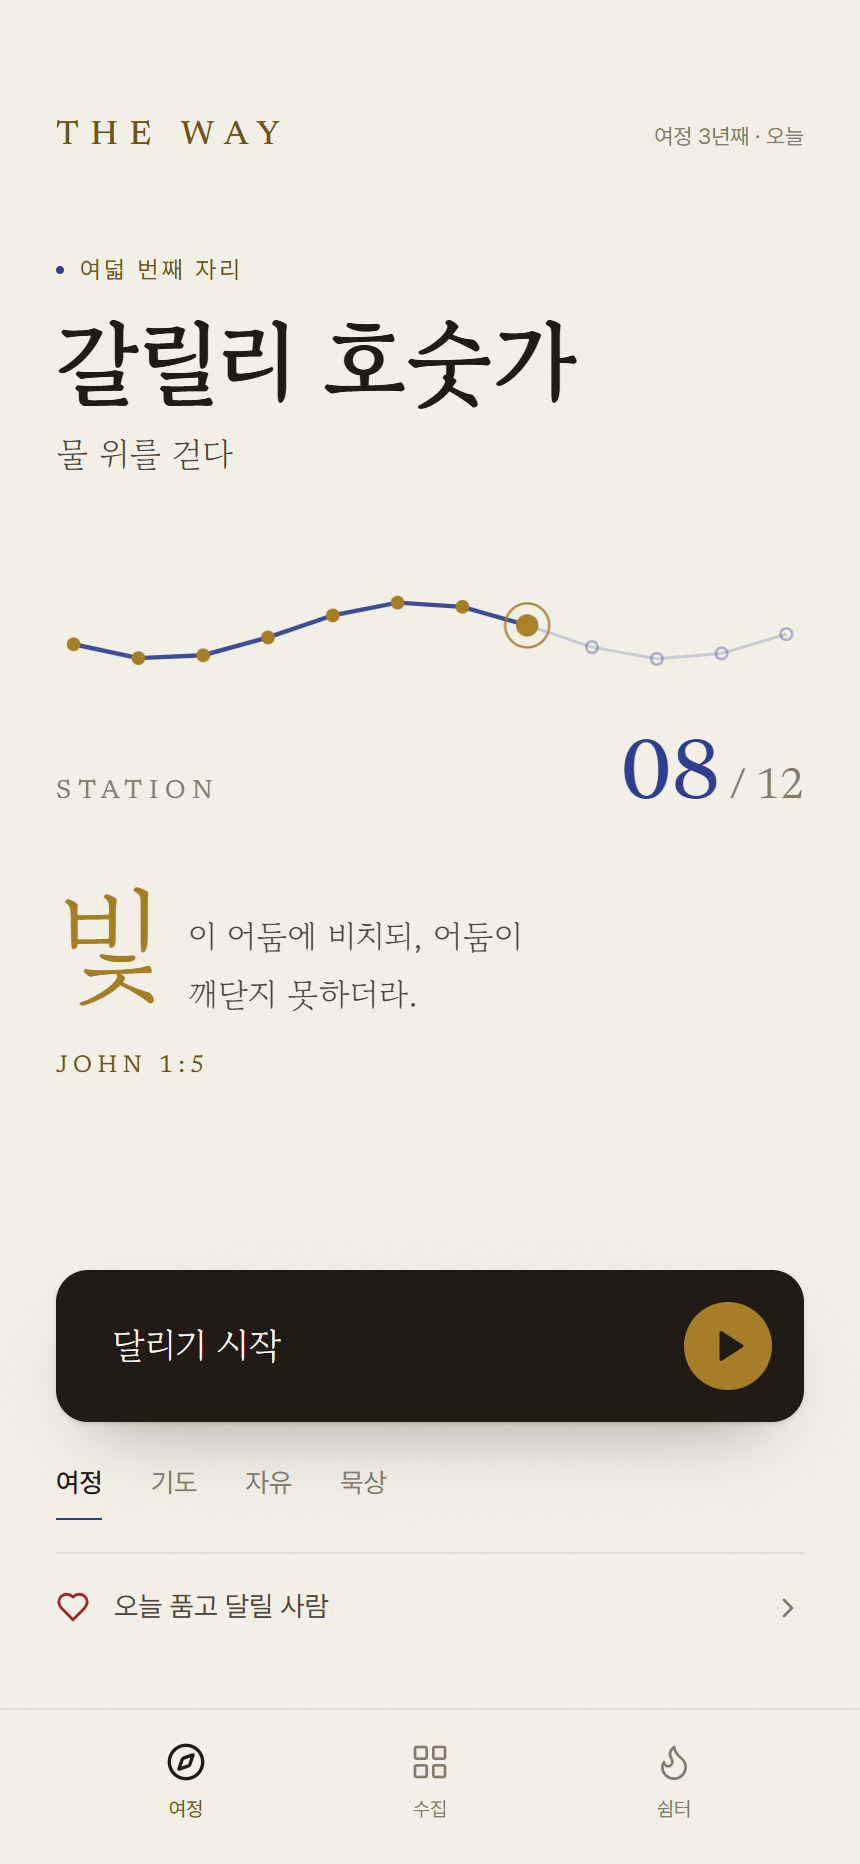
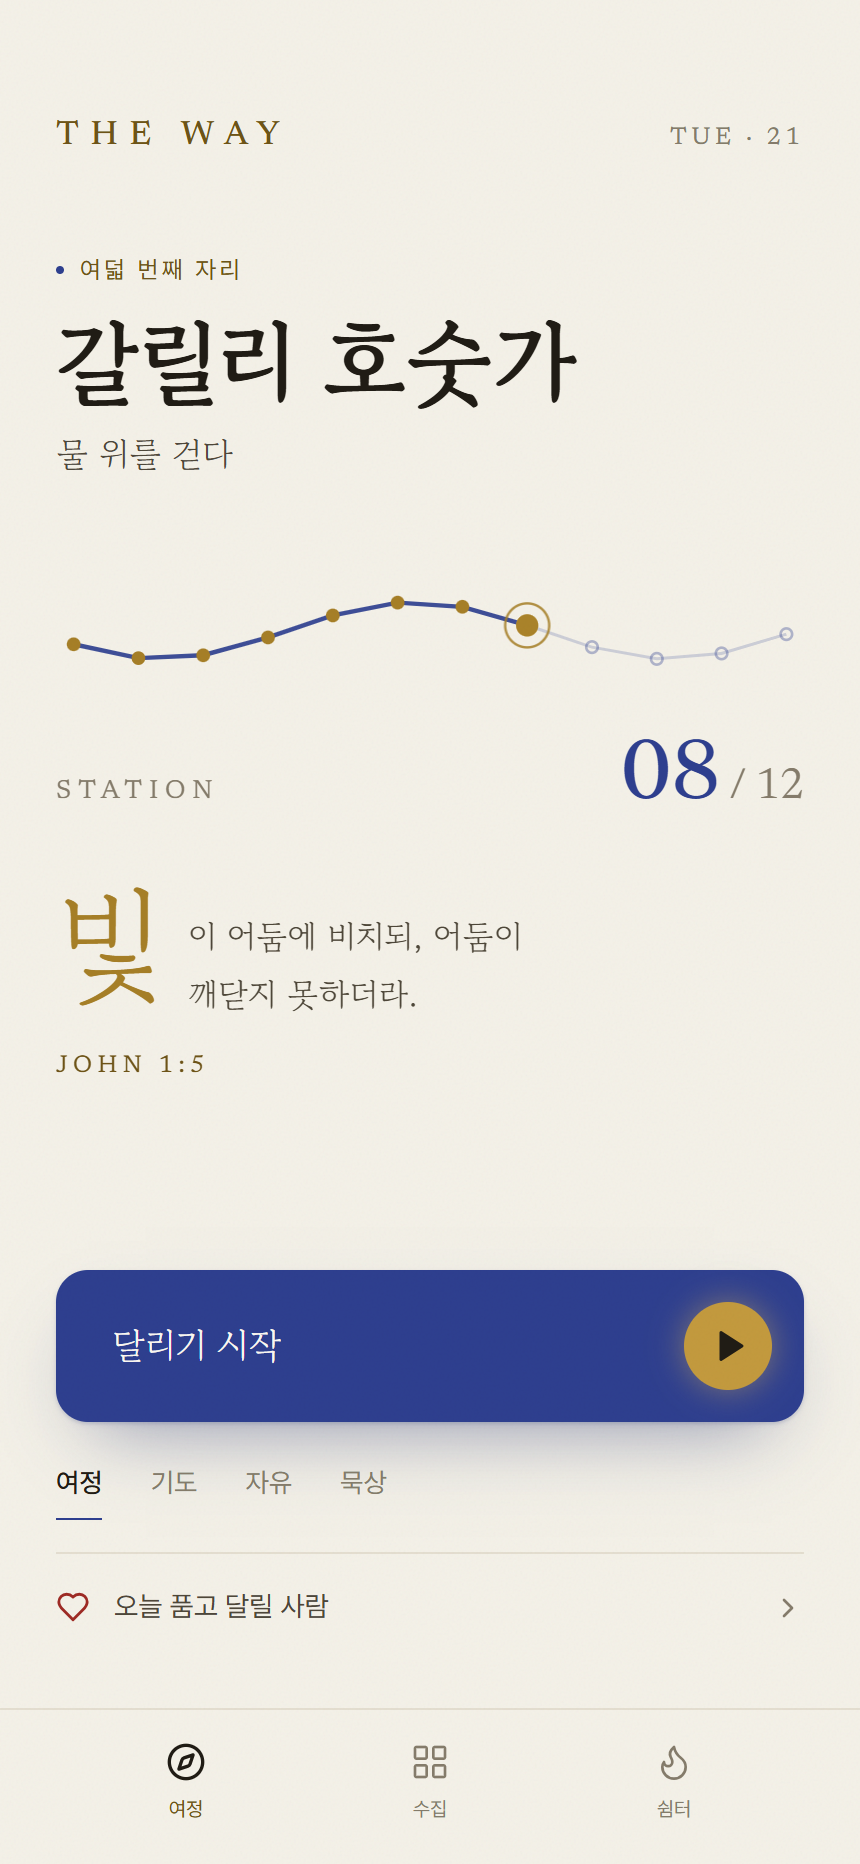
홈 점검·수정: CTA를 라피스로(검은 잉크 블록 → 길을 나선다)
- 달리기 시작 버튼 = bg-ink → bg-lapis + 금빛 발광 play 원. 따뜻한 필사본
  톤에 이질적이던 검은 블록 제거, 라피스="the Way"로 개념·색 통일.
- 헤더 우측 = 에디토리얼 마스트헤드 날짜(Newsreader oldstyle "TUE · 21").

Changed region(s): [[0.0605, 0.6534, 0.9372, 0.7779], [0.7558, 0.0622, 0.8767, 0.0933], [0.907, 0.0622, 0.9372, 0.0933]]

diff --git a/src/App.tsx b/src/App.tsx
@@ -73,7 +73,7 @@ export default function App() {
       <div className="relative flex min-h-full w-full max-w-[440px] flex-col overflow-hidden">
         <header className="relative z-10 flex items-baseline justify-between px-7" style={{ paddingTop: 'max(3.5rem, env(safe-area-inset-top))' }}>
           <span className="font-display text-[17px] font-medium tracking-[0.34em] text-gold-deep">THE&nbsp;WAY</span>
-          <span className="text-[11px] text-muted">여정 3년째 · 오늘</span>
+          <span className="font-display text-[12px] uppercase tracking-[0.18em] text-muted" style={{ fontFeatureSettings: "'onum' 1" }}>Tue · 21</span>
         </header>
 
         {/* HERO — one focal point */}
@@ -106,9 +106,9 @@ export default function App() {
 
         {/* PRIMARY ACTION */}
         <div className="relative z-10 px-7">
-          <button className="flex w-full items-center justify-between rounded-2xl bg-ink py-4 pl-7 pr-4 text-paper-raised shadow-[0_1px_2px_rgba(60,45,25,.14),0_18px_38px_-20px_rgba(60,45,25,.5)] transition active:scale-[0.99]">
+          <button className="flex w-full items-center justify-between rounded-2xl bg-lapis py-4 pl-7 pr-4 text-paper-raised shadow-[0_1px_2px_rgba(38,53,115,.2),0_18px_40px_-18px_rgba(38,53,115,.55)] transition active:scale-[0.99]">
             <span className="font-serif text-[18px]">달리기 시작</span>
-            <span className="flex h-11 w-11 items-center justify-center rounded-full bg-gold text-ink">
+            <span className="flex h-11 w-11 items-center justify-center rounded-full bg-gold-bright text-ink shadow-[0_0_16px_rgba(214,175,91,.5)]">
               <Play size={18} className="translate-x-[1px] fill-ink" />
             </span>
           </button>
